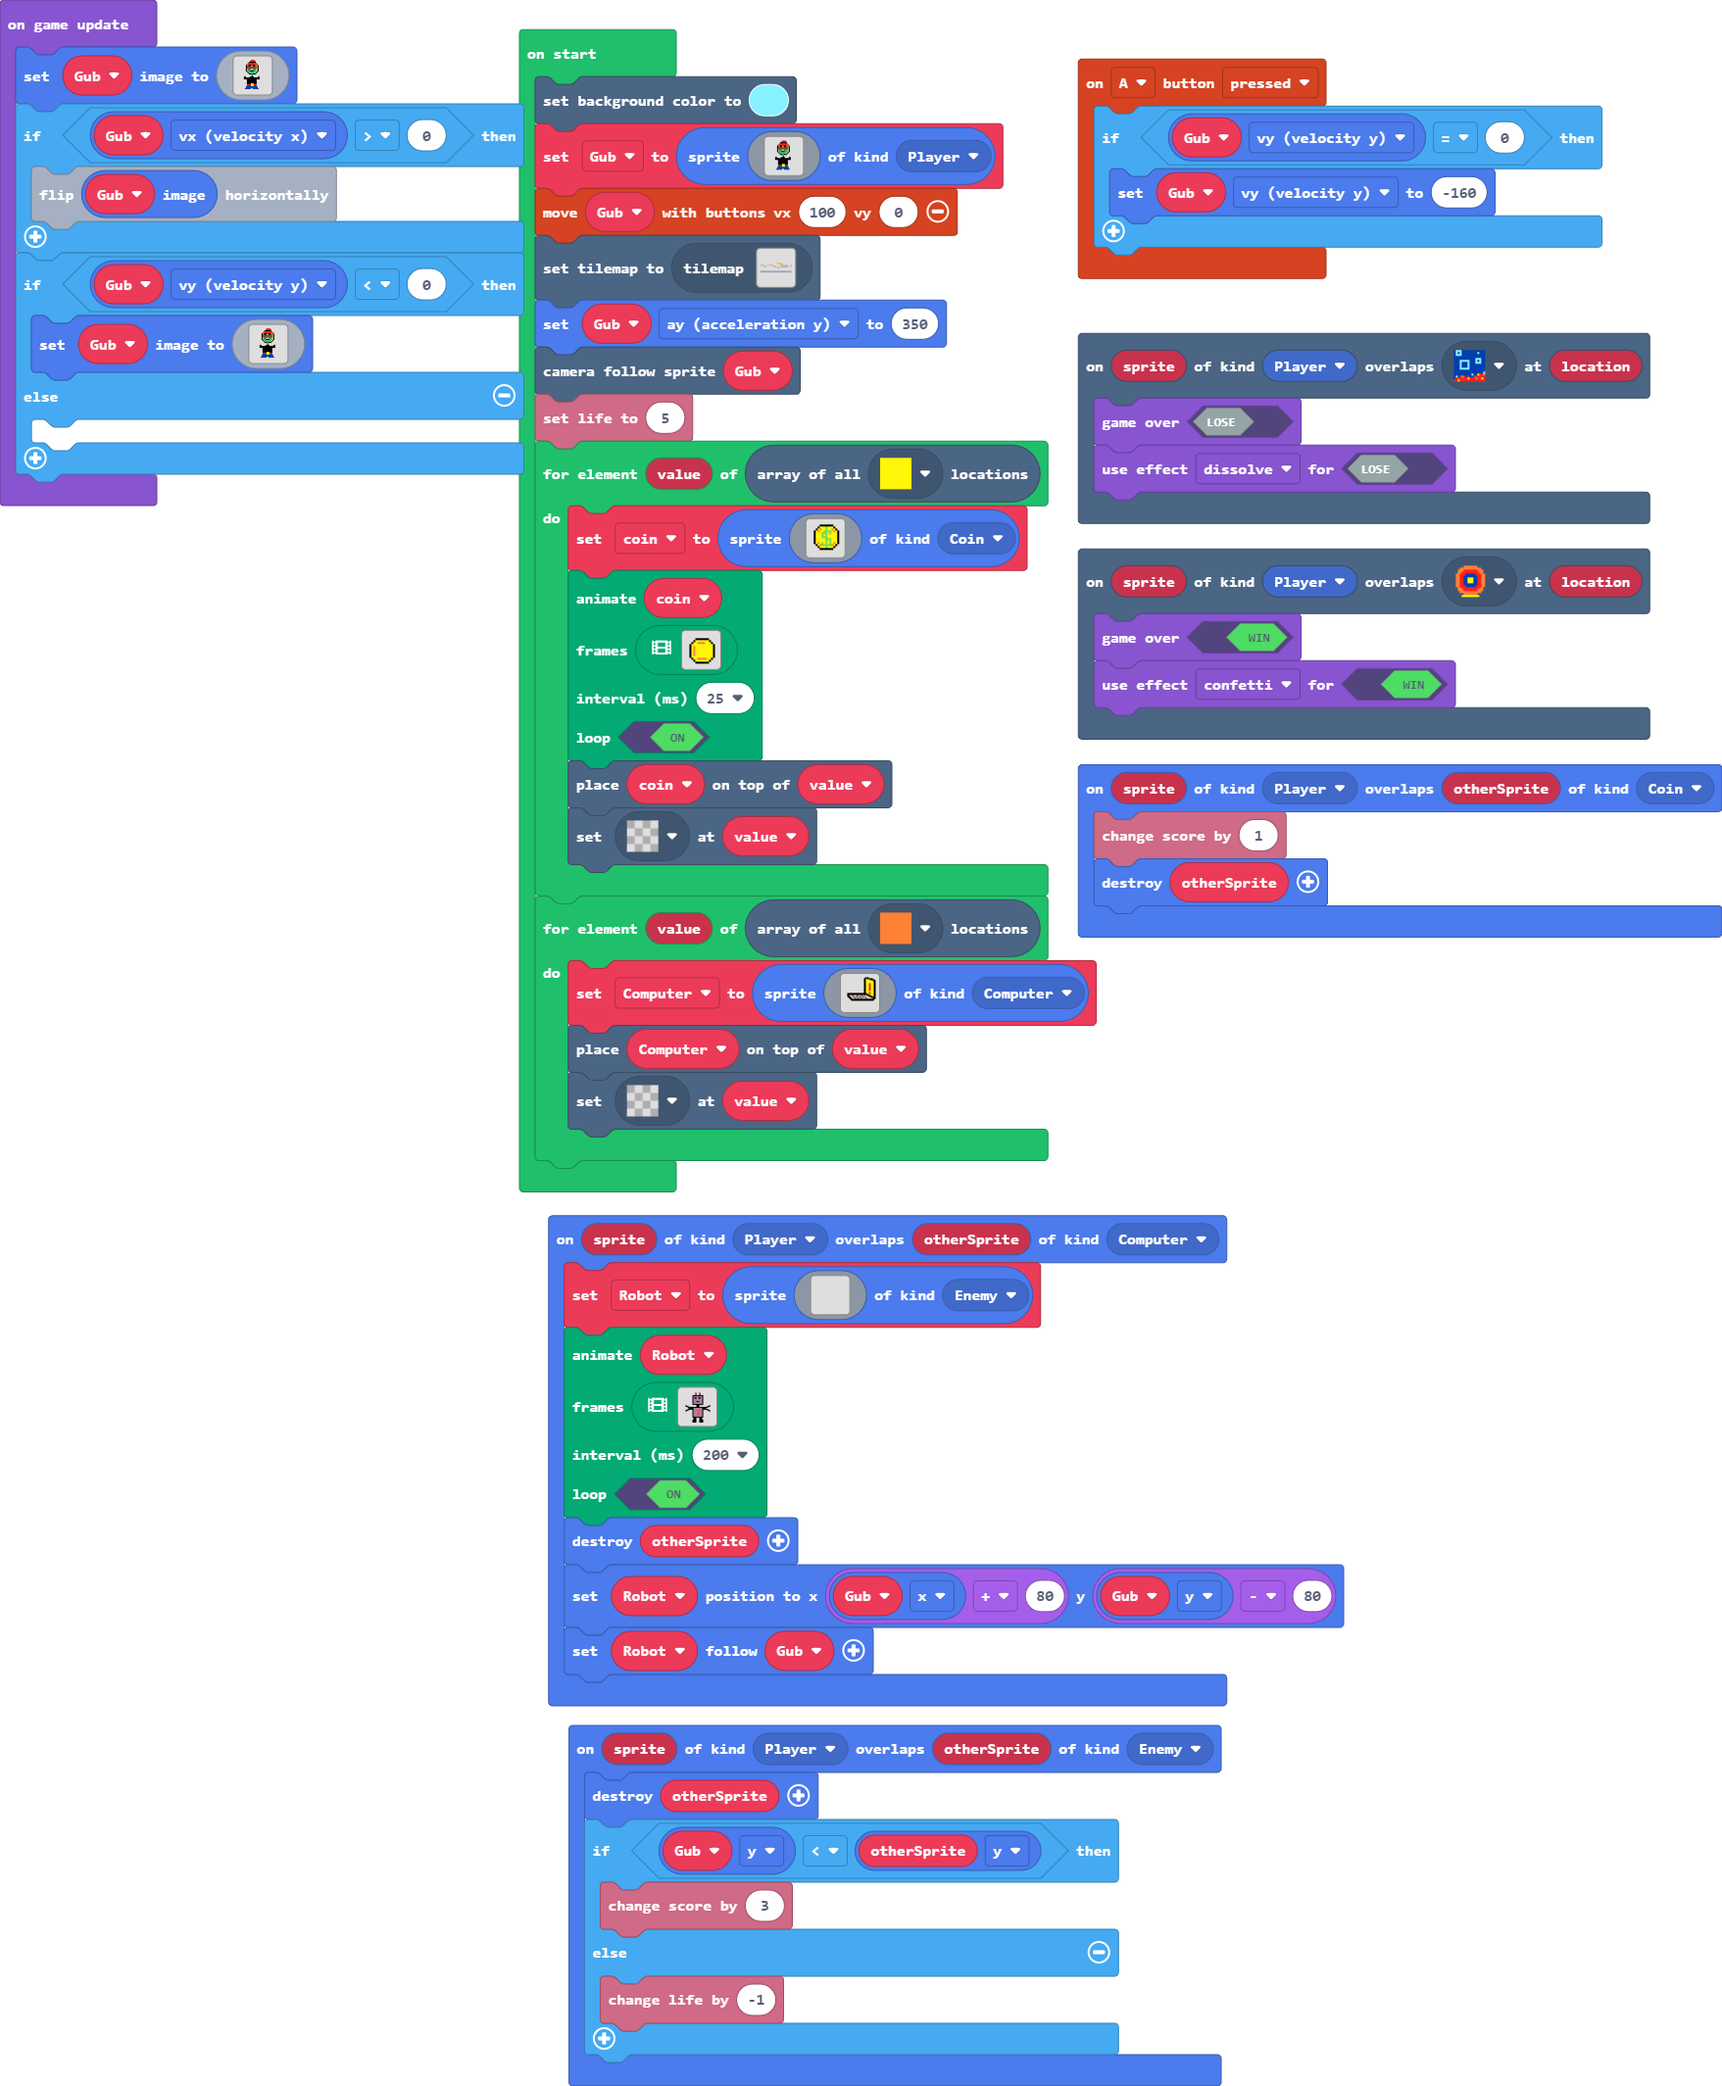
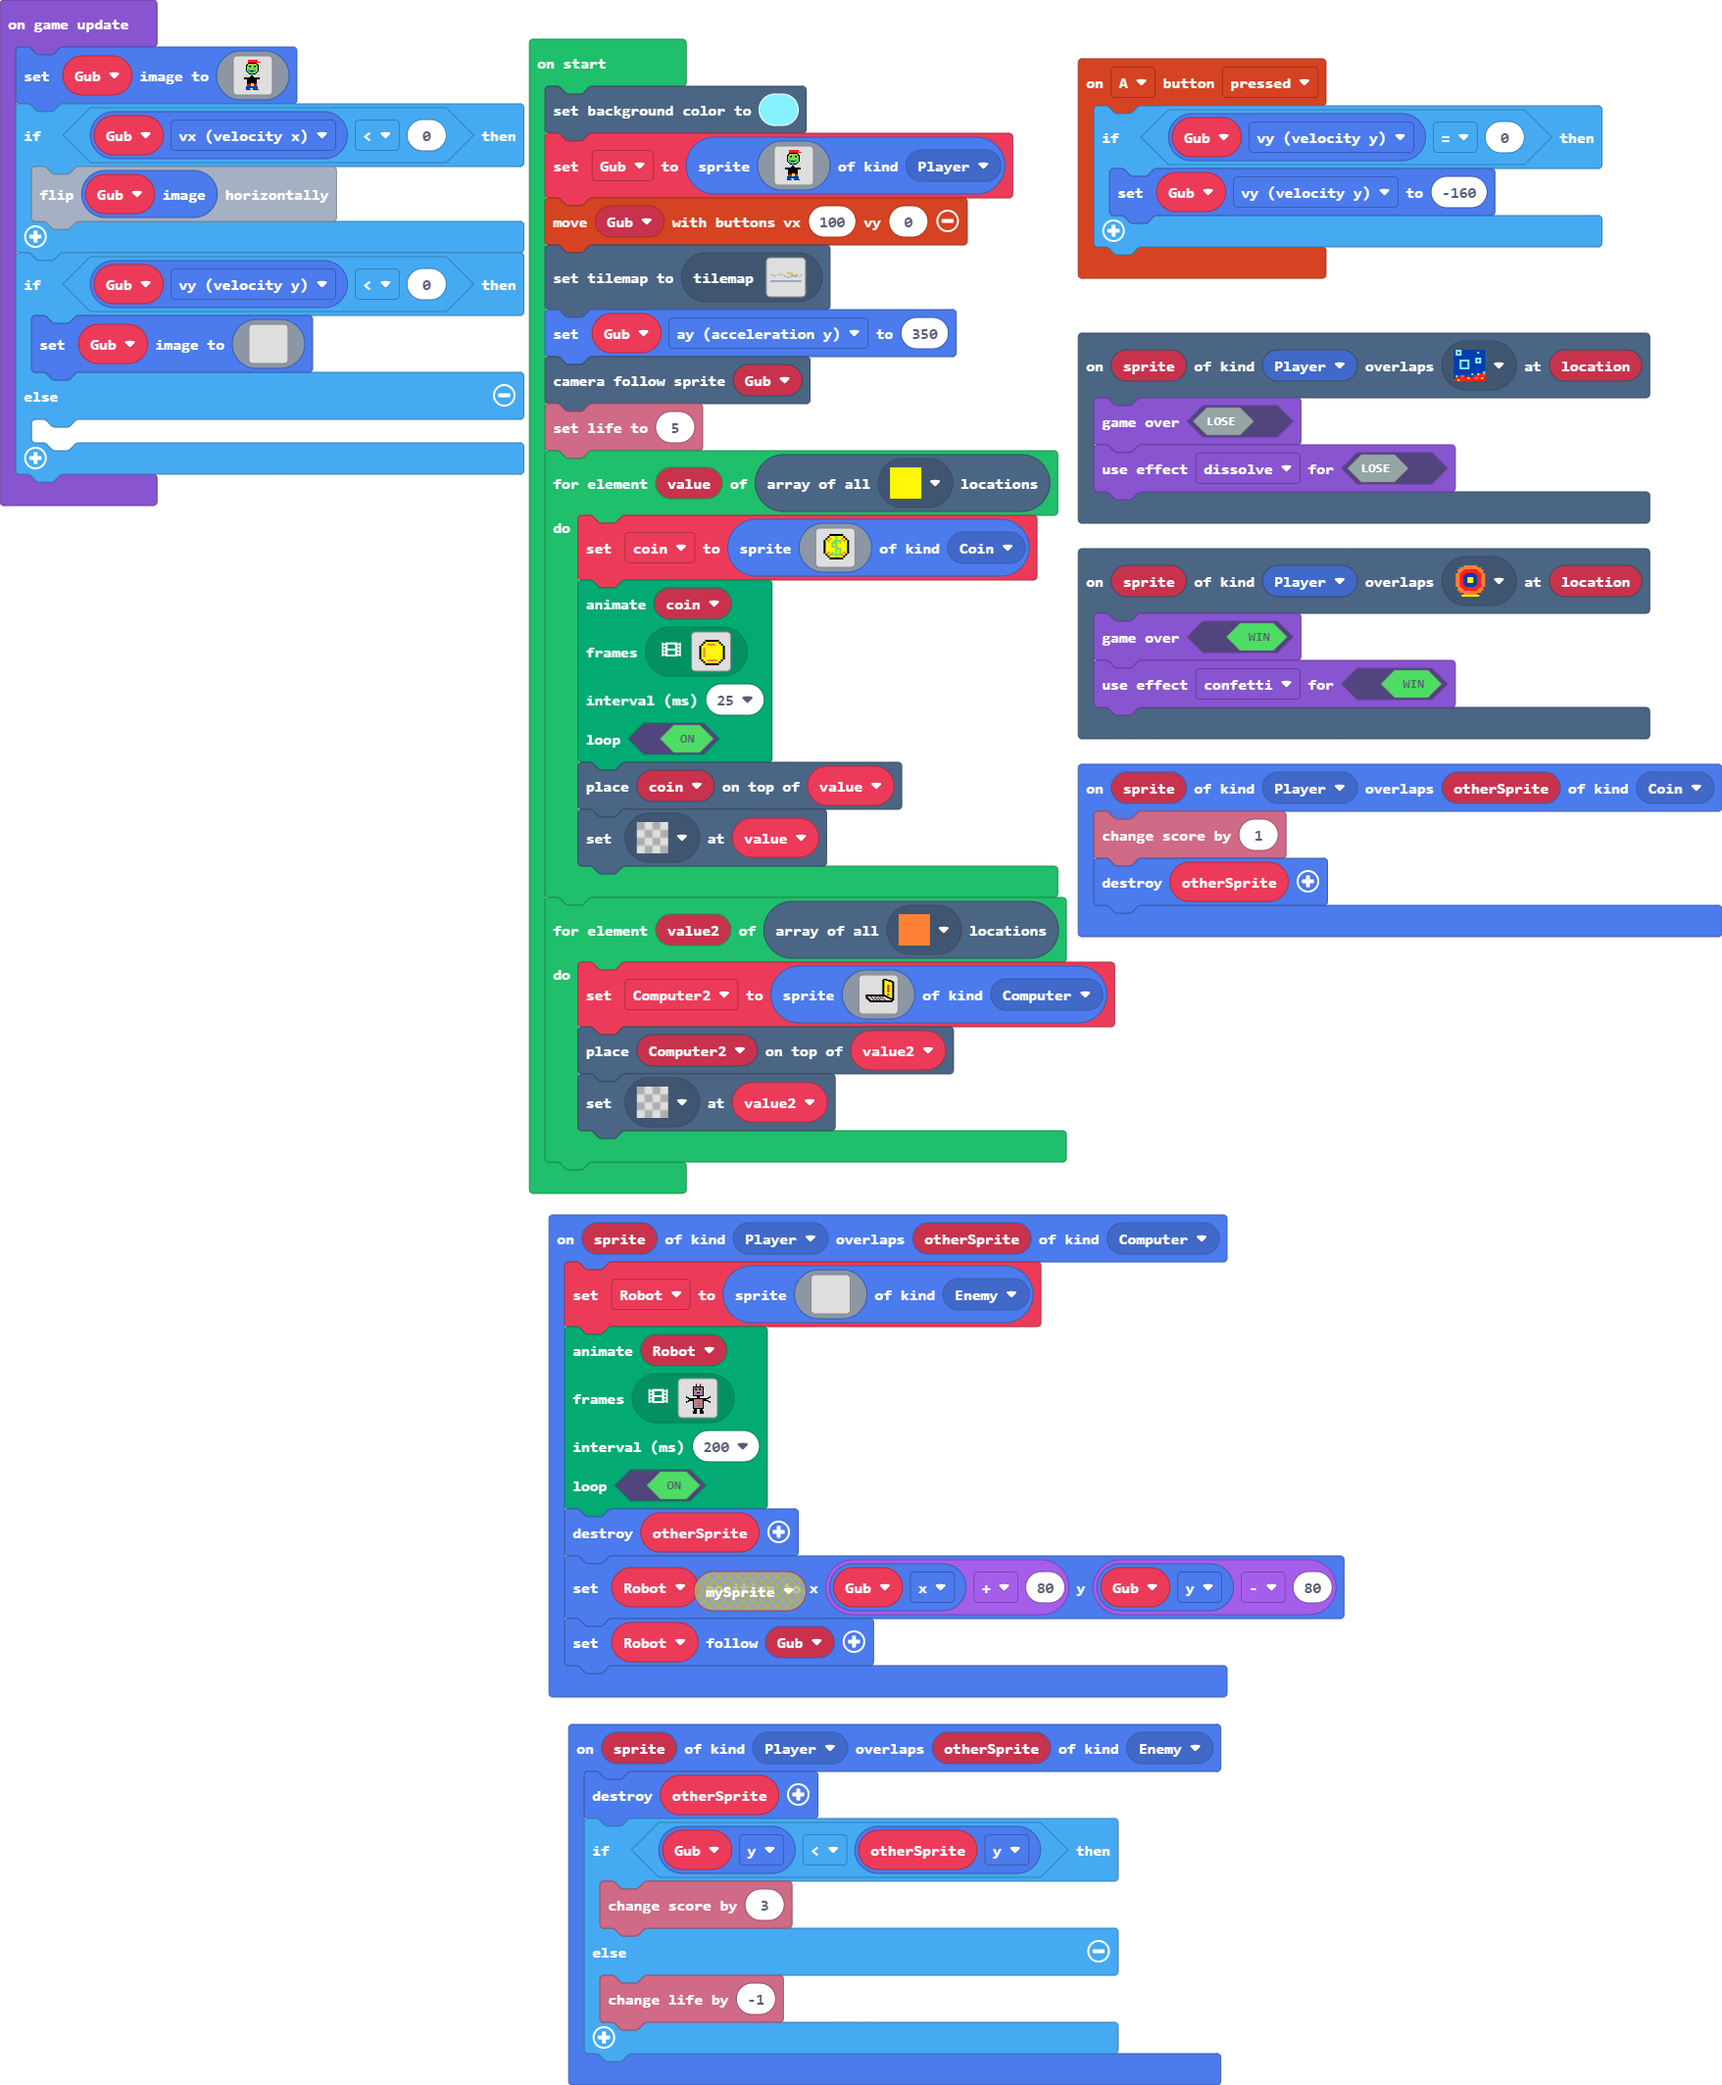
Update main.blocks, main.ts, images.g.jres, images.g.ts

diff --git a/main.ts b/main.ts
@@ -123,7 +123,7 @@ sprites.onOverlap(SpriteKind.Player, SpriteKind.Enemy, function (sprite, otherSp
     }
 })
 let Robot: Sprite = null
-let Computer: Sprite = null
+let Computer2: Sprite = null
 let coin: Sprite = null
 let Gub: Sprite = null
 scene.setBackgroundColor(9)
@@ -297,8 +297,8 @@ for (let value of tiles.getTilesByType(assets.tile`myTile2`)) {
     tiles.placeOnTile(coin, value)
     tiles.setTileAt(value, assets.tile`transparency16`)
 }
-for (let value of tiles.getTilesByType(assets.tile`myTile3`)) {
-    Computer = sprites.create(img`
+for (let value2 of tiles.getTilesByType(assets.tile`myTile3`)) {
+    Computer2 = sprites.create(img`
         .....................ffff.......
         ....................ff5ffffff...
         ....................ff5555fffff.
@@ -332,16 +332,33 @@ for (let value of tiles.getTilesByType(assets.tile`myTile3`)) {
         ................................
         ................................
         `, SpriteKind.Computer)
-    tiles.placeOnTile(Computer, value)
-    tiles.setTileAt(value, assets.tile`transparency16`)
+    tiles.placeOnTile(Computer2, value2)
+    tiles.setTileAt(value2, assets.tile`transparency16`)
 }
 game.onUpdate(function () {
     Gub.setImage(assets.image`GubJumping`)
-    if (Gub.vx > 0) {
+    if (Gub.vx < 0) {
         Gub.image.flipX()
     }
     if (Gub.vy < 0) {
-        Gub.setImage(assets.image`GubJumping`)
+        Gub.setImage(img`
+            . . . . . . . . . . . . . . . . 
+            . . . . . . . . . . . . . . . . 
+            . . . . . . . . . . . . . . . . 
+            . . . . . . . . . . . . . . . . 
+            . . . . . . . . . . . . . . . . 
+            . . . . . . . . . . . . . . . . 
+            . . . . . . . . . . . . . . . . 
+            . . . . . . . . . . . . . . . . 
+            . . . . . . . . . . . . . . . . 
+            . . . . . . . . . . . . . . . . 
+            . . . . . . . . . . . . . . . . 
+            . . . . . . . . . . . . . . . . 
+            . . . . . . . . . . . . . . . . 
+            . . . . . . . . . . . . . . . . 
+            . . . . . . . . . . . . . . . . 
+            . . . . . . . . . . . . . . . . 
+            `)
     } else {
     	
     }

diff --git a/images.g.ts b/images.g.ts
@@ -5,24 +5,24 @@ namespace myImages {
         switch(helpers.stringTrim(name)) {
             case "image1":
             case "GubJumping":return img`
-..............2222..............
-.............222222.............
-............fffffff.............
-...........222222222............
-..........22222222222...........
-.........f7effeeffe722..........
-.........feeff77ffee7f..........
-.........feeeeeeeeee7f..........
-.........feeeeeeeeee7f..........
-.........f7eee77eee77f..........
+...........2222222222...........
+...........2222222222...........
+...........2222222222222........
+...........fffffffff............
+..........f777777777f...........
+.........ff777777777ff..........
+.........f77ef777ef77f..........
+.........f77ee777ee77f..........
+.........f77777777777f..........
+.........f77777777777f..........
 .........f76677776677f..........
 .........f767ffff7677f..........
 ..........f767777677f...........
 ...........f7666677f............
 ............ff66fff.............
-.......dd.....66.....dd.........
-.......dd......f.....dd.........
-.......ff....ffff....ff.........
+.......ddd....66....ddd.........
+.......ddd....ff....ddd.........
+.......ddd...ffff...ddd.........
 .......ffffffffffffffff.........
 .......ffffffffffffffff.........
 ..........ffffffffff............
@@ -34,8 +34,8 @@ namespace myImages {
 ..........8888555888............
 .........888888888888...........
 .........888888888888...........
-........888888..888888..........
-................................
+.........8888...88888...........
+.........88888..888888..........
 ................................
 `;
         }
